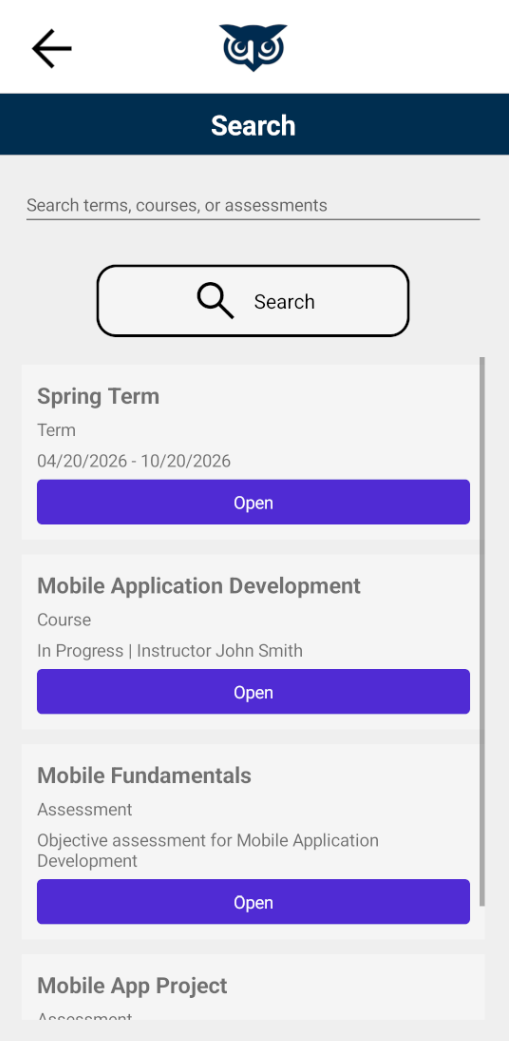
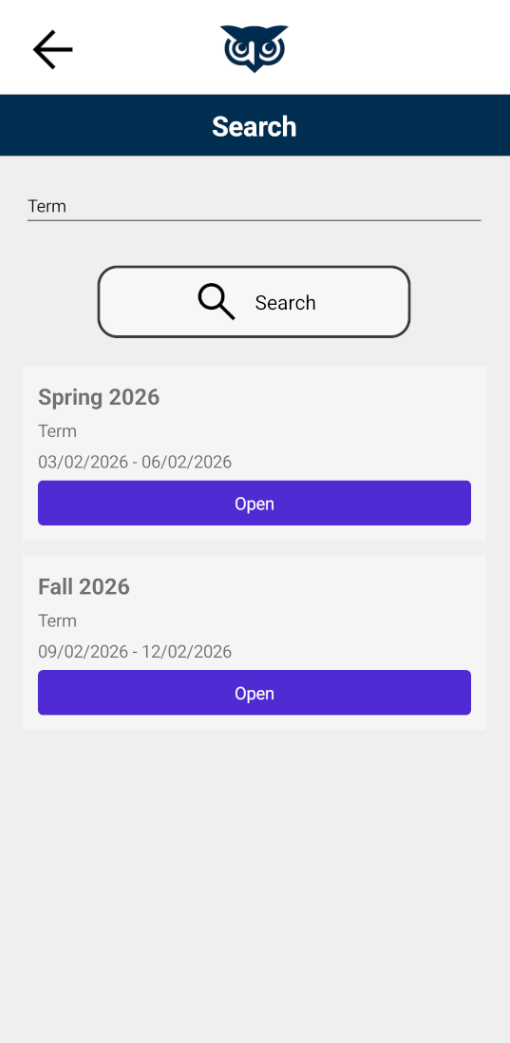
update README and screenshots

diff --git a/README.md b/README.md
@@ -1,76 +1,258 @@
 # Academic Planner Pro
 
-Academic Planner Pro is an Android mobile application built with .NET MAUI for students to track academic terms, courses, and assessments. The app allows users to create, edit, and delete terms, manage courses within each term, manage assessments within each course, view detailed course information, share course notes, and receive alerts for important dates.
+Academic Planner Pro is a .NET MAUI Android application for managing academic terms, courses, assessments, alerts, notes, search, and reports.
 
-## Overview
-
-This project was developed as a term, course, and assessment planner for students. It supports:
-
-- term management
-- course management
-- assessment management
-- course notes sharing
-- local notifications for selected course and assessment dates
-- seeded evaluation data for testing
-
-The app uses a local SQLite database through `sqlite-net-pcl` and is currently configured for Android.
+The app uses local SQLite storage, account authentication, password hashing, notification scheduling, and CSV report export.
 
 ## Features
 
-### Terms
-- Add a term
-- Edit a term
-- Delete a term
-- Prevent overlapping term dates
-- Display terms on the home page
-- Show `(Current)` next to a term when the current date falls within that term’s date range
-
-### Courses
-- Add courses to a term
-- Edit course information
-- Delete a course
-- View detailed course information
-- Store:
-  - course title
-  - start date
-  - end date
-  - course status
-  - instructor name
-  - instructor phone
-  - instructor email
-  - notes
-  - alert setting
-- Share course notes using the device share sheet
-- Open phone and email actions from the course overview page
-
-### Assessments
-- Add assessments to a course
-- Edit assessment information
-- Delete assessments
-- Store:
-  - assessment title
-  - assessment type
-  - start date
-  - end date
-  - alert setting
-- Limit assessments so a course can only have:
-  - one Objective assessment
-  - one Performance assessment
-
-### Notifications
-- Course alerts can be set for:
-  - start date
-  - end date
-  - both
-- Assessment alerts can be set for:
-  - start date
-  - end date
-  - both
+- Create and manage academic terms
+- Add courses within terms
+- Track course status, start dates, end dates, instructor information, and notes
+- Add Objective and Performance assessments for each course
+- Validate term, course, and assessment date ranges
+- Search across terms, courses, and assessments
+- Schedule local start and end alerts for courses and assessments
+- Export upcoming academic activity to a CSV report
+- Create a local user account with hashed password storage
+- Optional PIN unlock
+- Local SQLite persistence
+- Unit tests for hashing, password validation, and academic validation rules
 
 ## Tech Stack
 
-- .NET MAUI
 - C#
-- XAML
+- .NET MAUI
+- .NET 9
+- Android
 - SQLite
-- `sqlite-net-pcl`
+- sqlite-net-pcl
+- xUnit
+
+## Screenshots
+
+### Account Setup
+
+![Account setup](docs/assets/screenshots/account-setup.png)
+
+### Terms Page
+
+![Terms page](docs/assets/screenshots/term-page.png)
+
+### Term Overview
+
+![Term overview](docs/assets/screenshots/term-overview.png)
+
+### Course Editor
+
+![Course editor](docs/assets/screenshots/course-edit.png)
+
+### Course Overview
+
+![Course overview](docs/assets/screenshots/course-overview.png)
+
+### Assessment Editor
+
+![Assessment editor](docs/assets/screenshots/assessment-edit.png)
+
+### Search
+
+![Search page](docs/assets/screenshots/search-page.png)
+
+### Reports
+
+![Reports page](docs/assets/screenshots/reports-page.png)
+
+### Settings
+
+![Settings page](docs/assets/screenshots/settings-page.png)
+
+### Test Results
+
+![Test results](docs/assets/screenshots/test-results.png)
+
+## How to Run
+
+1. Clone the repository.
+
+`git clone https://github.com/nencraft/academic-planner-pro.git`
+
+2. Open the solution in Visual Studio.
+
+`AcademicPlanner.sln`
+
+3. Select an Android emulator or connected Android device.
+
+4. Build and run the `AcademicPlanner` project.
+
+## Demo Flow
+
+1. Create a local account.
+2. Add an academic term.
+3. Add a course within the term.
+4. Add instructor information and course notes.
+5. Add one Objective assessment and one Performance assessment.
+6. Enable course or assessment alerts.
+7. Use Search to find a term, course, or assessment.
+8. Open Reports and export upcoming academic activity.
+9. Enable PIN unlock from Settings.
+
+## How to Run Tests
+
+Run the test project from the repository root:
+
+`dotnet test AcademicPlanner.Tests/AcademicPlanner.Tests.csproj`
+
+The test project covers non-UI logic, including:
+
+- Password hashing
+- Password verification
+- Password validation rules
+- Required field validation
+- Date range validation
+- Email validation
+- Phone validation
+- Assessment count rules
+- Duplicate assessment type rules
+
+## Project Structure
+
+AcademicPlanner/
+
+- `Data/`
+  - SQLite database access
+- `Helpers/`
+  - Shared validation helpers
+- `Models/`
+  - Terms, courses, assessments, users, planner items, and report rows
+- `Services/`
+  - Authentication, hashing, search, reports, planner item generation, notifications, and seed data
+- `Views/`
+  - .NET MAUI pages
+- `Platforms/Android/`
+  - Android-specific notification code
+- `Resources/`
+  - App icons, images, fonts, and styles
+
+AcademicPlanner.Tests/
+
+- `Helpers/`
+  - Validation helper tests
+- `Services/`
+  - Hashing and password validation tests
+
+## Architecture
+
+Academic Planner Pro uses a layered structure:
+
+- Views handle UI and page-level user interactions.
+- Services contain app logic such as authentication, search, reporting, planner item generation, and notification coordination.
+- Data handles SQLite persistence.
+- Models define the data objects used throughout the app.
+- Platform-specific Android notification code is isolated under `Platforms/Android`.
+- Tests focus on non-UI logic to keep the test suite stable and fast.
+
+## Data Persistence
+
+The app stores data locally using SQLite.
+
+Stored data includes:
+
+- User account information
+- Terms
+- Courses
+- Assessments
+- Course notes
+- Alert settings
+- Notification IDs
+- PIN unlock settings
+
+## Authentication and Security
+
+Academic Planner Pro supports local account creation and login.
+
+Security-related features include:
+
+- Password hashing
+- Password salts
+- Password strength validation
+- Optional PIN unlock
+- No committed signing keys
+
+Android signing keys are not included in this repository. Local release builds should use a developer-created keystore configured outside source control.
+
+## Notifications
+
+The app supports local Android notifications for course and assessment reminders.
+
+Notification behavior includes:
+
+- Course start reminders
+- Course end reminders
+- Assessment start reminders
+- Assessment due reminders
+- Stable notification IDs
+- Notification cancellation when related academic items are deleted or updated
+
+## Search
+
+The Search page allows users to find:
+
+- Terms
+- Courses
+- Assessments
+
+Search results can be opened directly from the results list.
+
+## Reports
+
+The Reports page generates upcoming academic activity from terms, courses, and assessments.
+
+Reports include:
+
+- Item type
+- Title
+- Context
+- Start date
+- End or due date
+- Status
+
+Reports can be exported as CSV files.
+
+## Validation Rules
+
+The app enforces several academic planning rules:
+
+- Required fields cannot be blank.
+- Start dates cannot be after end dates.
+- Course dates must fall within the selected term.
+- Assessment dates must fall within the selected course.
+- Instructor email must use a valid email format.
+- Instructor phone must use a valid phone format.
+- A course can have no more than two assessments.
+- A course cannot have duplicate assessment types.
+- Account passwords must meet basic strength requirements.
+
+## Recent Improvements
+
+- Removed committed Android signing key
+- Cleaned repository ignore rules
+- Added centralized planner item generation
+- Improved academic date validation
+- Added phone validation
+- Added password strength validation
+- Improved notification scheduling and cancellation
+- Improved Search page empty-state behavior
+- Improved Reports page summary and export feedback
+- Added unit tests for core non-UI logic
+- Updated project documentation and screenshots
+
+## Future Improvements
+
+- Add recurring reminders
+- Add calendar export
+- Add dark mode support
+- Add cloud backup or sync
+- Add filtering and sorting to reports
+- Add more detailed assessment progress tracking
+- Move shared business logic into a dedicated core library
